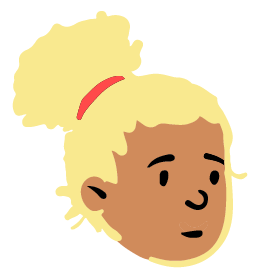
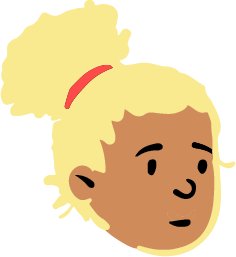
karaoke landing fix

diff --git a/apps/templates/home/karaoke-neutral.html b/apps/templates/home/karaoke-neutral.html
@@ -17,7 +17,6 @@
       <div class ="card-body">
         <h3 style="color: #B31B1B">Expression Karaoke: Listening</h3>
             <p class="card-text"> 
-              <br> 
               Let's practice your neutral facial expression when you listen to a patient . Click "Start Camera" to see your face and try to match your face to the emoji!</p>
             <div class="start-stop text-center">
               <button class="btn btn-dark" type="button" id="startCamera" onclick="startCamera()">Start Camera</button>
@@ -37,9 +36,8 @@
           <img src="/static/assets/img/listening.png" alt="Listening Emoji" class="center" style="object-fit: contain" width="600" height="600">
         </div>
       </div>
-      <br>
-      <h6> Note: emotion recognition works the best when you position your face in the center of the frame, reduce background clutter, and keep bright lights out of frame. 
-        If a box identifies your face and expression, everything is working! If not, click <a href="mailto:aidana@mit.edu?subject=Medship is not recognizing my facial expression correctly:(" target="_blank">here</a>, and leave a short description of your situation.</h6>
+      <h5> Note: emotion recognition works the best when you position your face in the center of the frame, reduce background clutter, and keep bright lights out of frame. 
+        If a box identifies your face and expression, everything is working! If not, click <a href="mailto:aidana@mit.edu?subject=Medship is not recognizing my facial expression correctly:(" target="_blank">here</a>, and leave a short description of your situation.</h5>
       <br>
   <div class="row">
       <div class="col-6">

diff --git a/apps/templates/home/karaoke-landing.html b/apps/templates/home/karaoke-landing.html
@@ -61,7 +61,7 @@
                         <div class="row g-0">
                           <div class="col-md-4">
                           <br>
-                            <img src="/static/assets/img/2.png" class="img-fluid rounded-start" alt="Welcoming Emoji">
+                            <img src="/static/assets/img/3.png" class="img-fluid rounded-start" alt="Listening Emoji">
                           </div>
                           <div class="col-md-8">
                             <div class="card-body">

diff --git a/apps/templates/home/karaoke-sad.html b/apps/templates/home/karaoke-sad.html
@@ -15,7 +15,7 @@
         <div class="container-lg">
           <div class="card">
           <div class ="card-body">
-            <h3 style="color: #B31B1B"> Expression Karaoke: Compassion</h3>
+            <h2 style="color: #B31B1B"> Expression Karaoke: Compassion</h2>
                 <p class="card-text"> 
                   <br>
                   Let's practice your compassionate facial expression. Click "Start Camera" to see your face and try to match your face to the emoji! </p>
